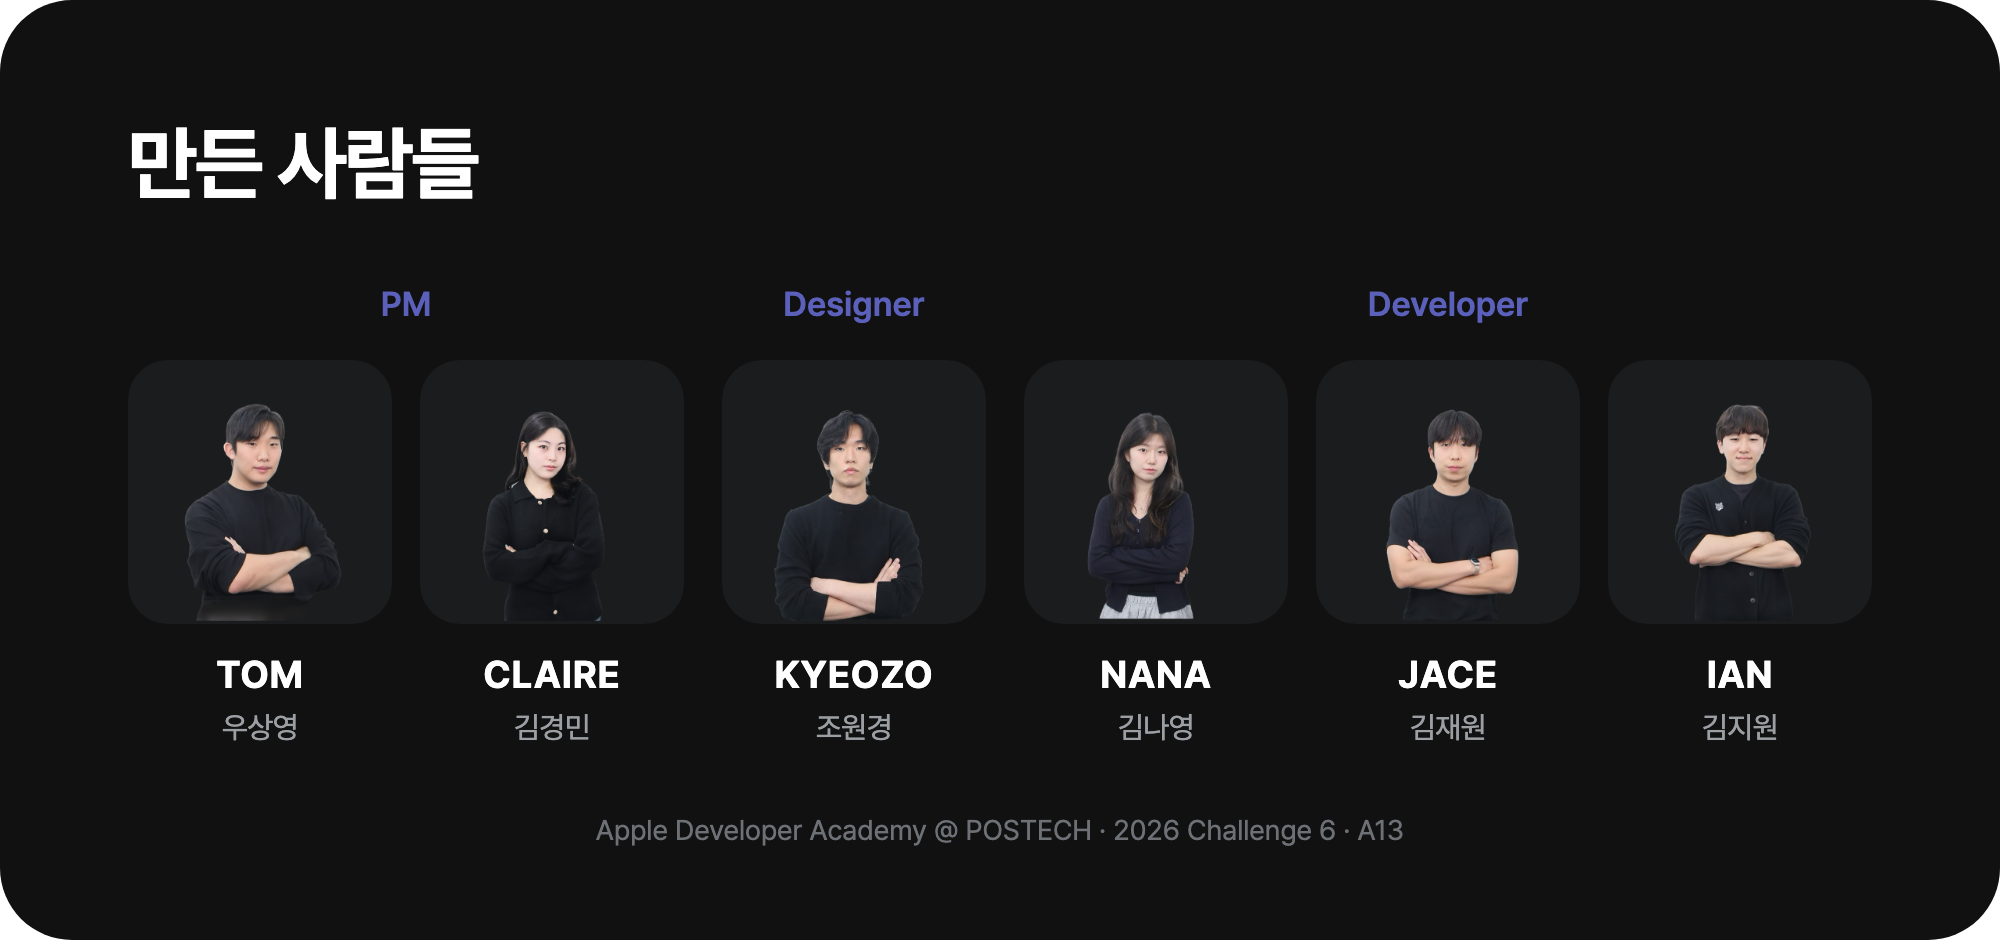
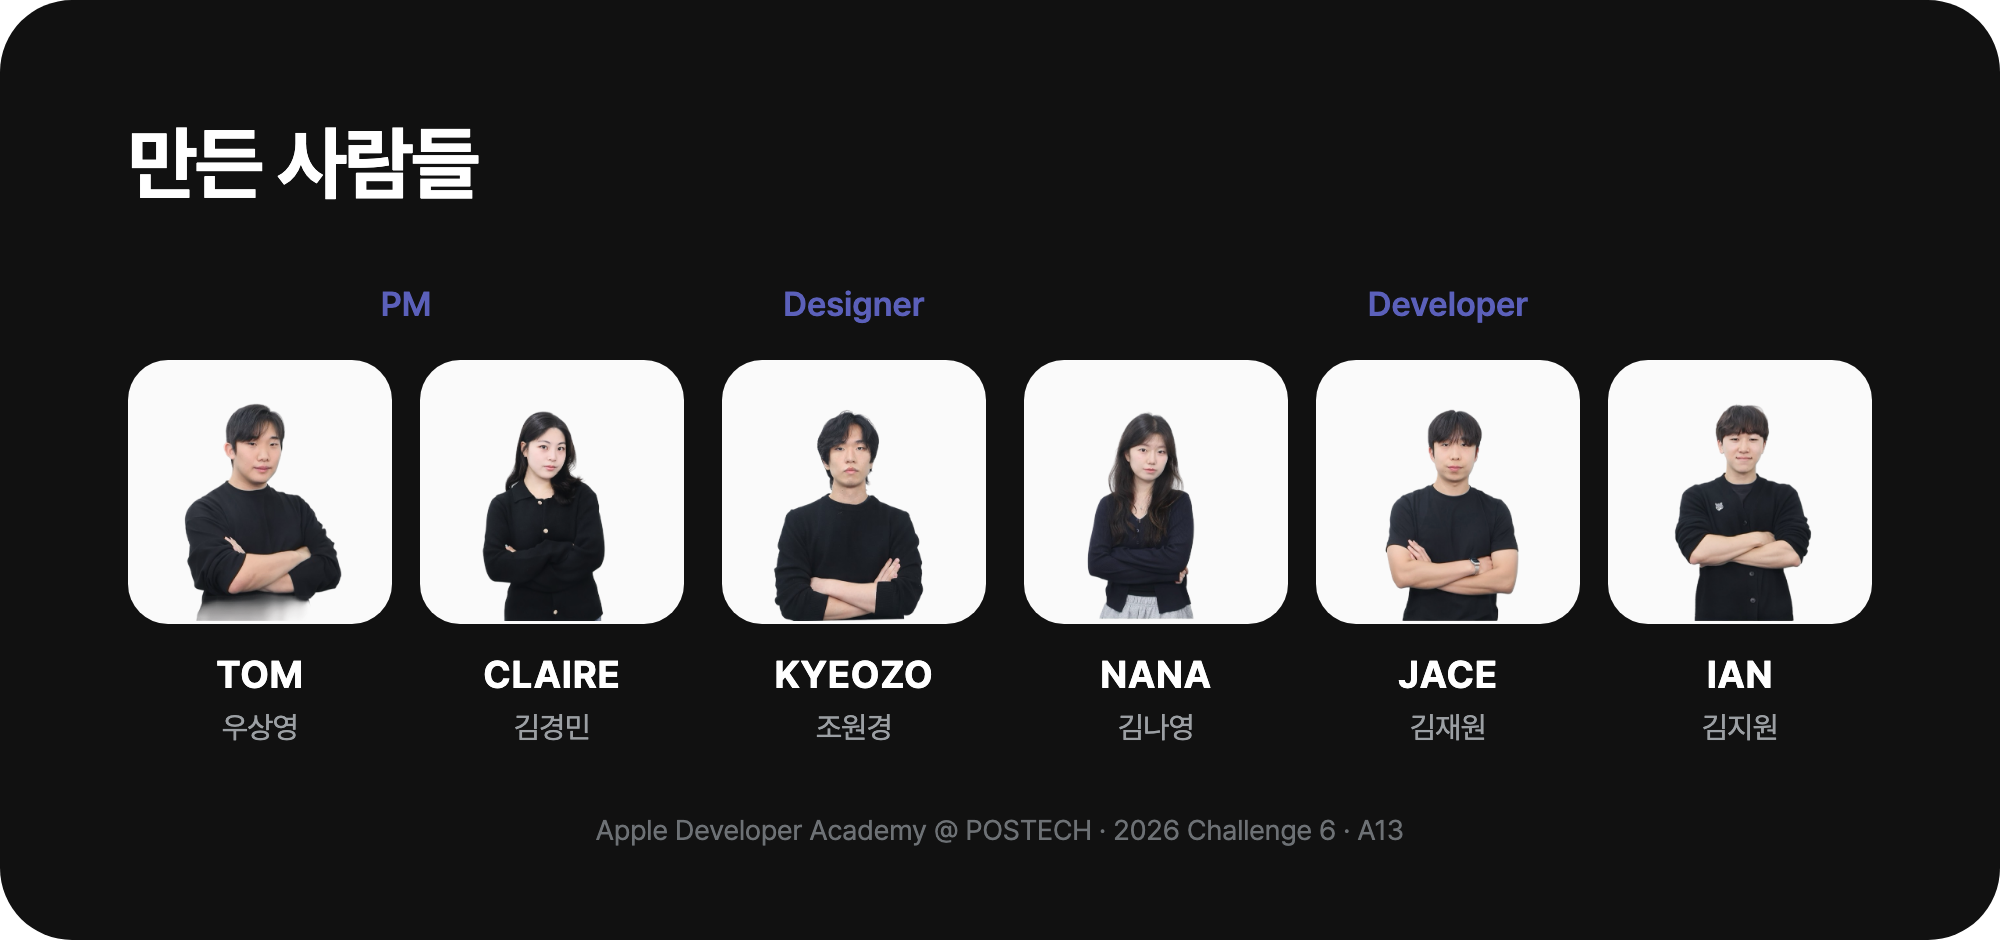
docs: README 팀 카드 사진 칸 배경을 fafafa로 바꾼다
사용자가 팀원 사진 뒤 작은 네모를 밝은 #fafafa로 정했다. src/cards.html의 사진 칸 배경을 바꾸고 card-team.png만 다시 찍었다.

Changed region(s): [[0.062, 0.3702, 0.961, 0.6787]]

diff --git a/.github/assets/readme/src/cards.html b/.github/assets/readme/src/cards.html
@@ -65,7 +65,7 @@
   #team .group { display: flex; flex-direction: column; gap: 18px; align-items: center; }
   #team .members { display: flex; gap: 14px; }
   #team .member { width: 132px; display: flex; flex-direction: column; align-items: center; gap: 6px; }
-  #team .member img { width: 132px; height: 132px; object-fit: contain; border-radius: 20px; background: var(--surface); }
+  #team .member img { width: 132px; height: 132px; object-fit: contain; border-radius: 20px; background: #fafafa; }
   #team .member b { font-size: 19px; font-weight: 700; letter-spacing: 0.02em; margin-top: 8px; }
   #team .member span { font-size: 15px; color: var(--sub); }
   #team .foot { text-align: center; font-size: 14px; color: #6d7175; letter-spacing: 0; }
